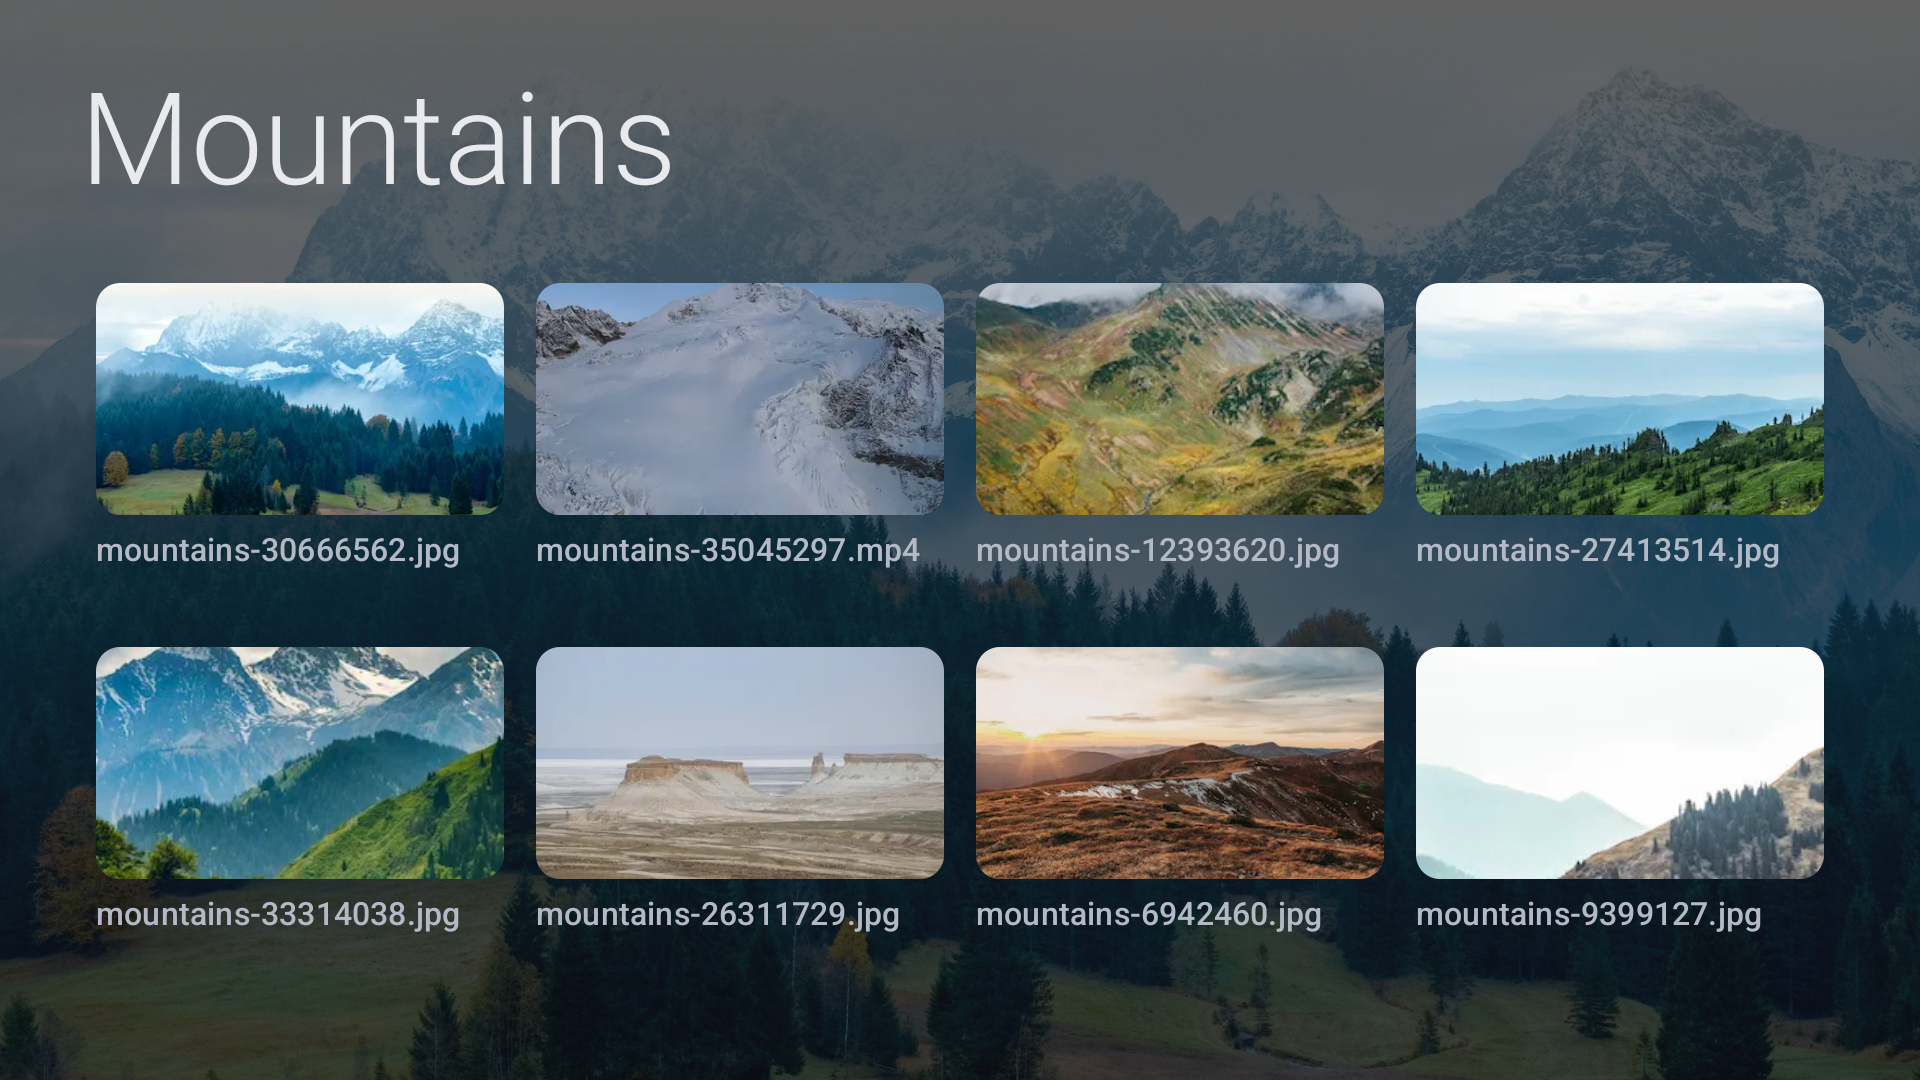
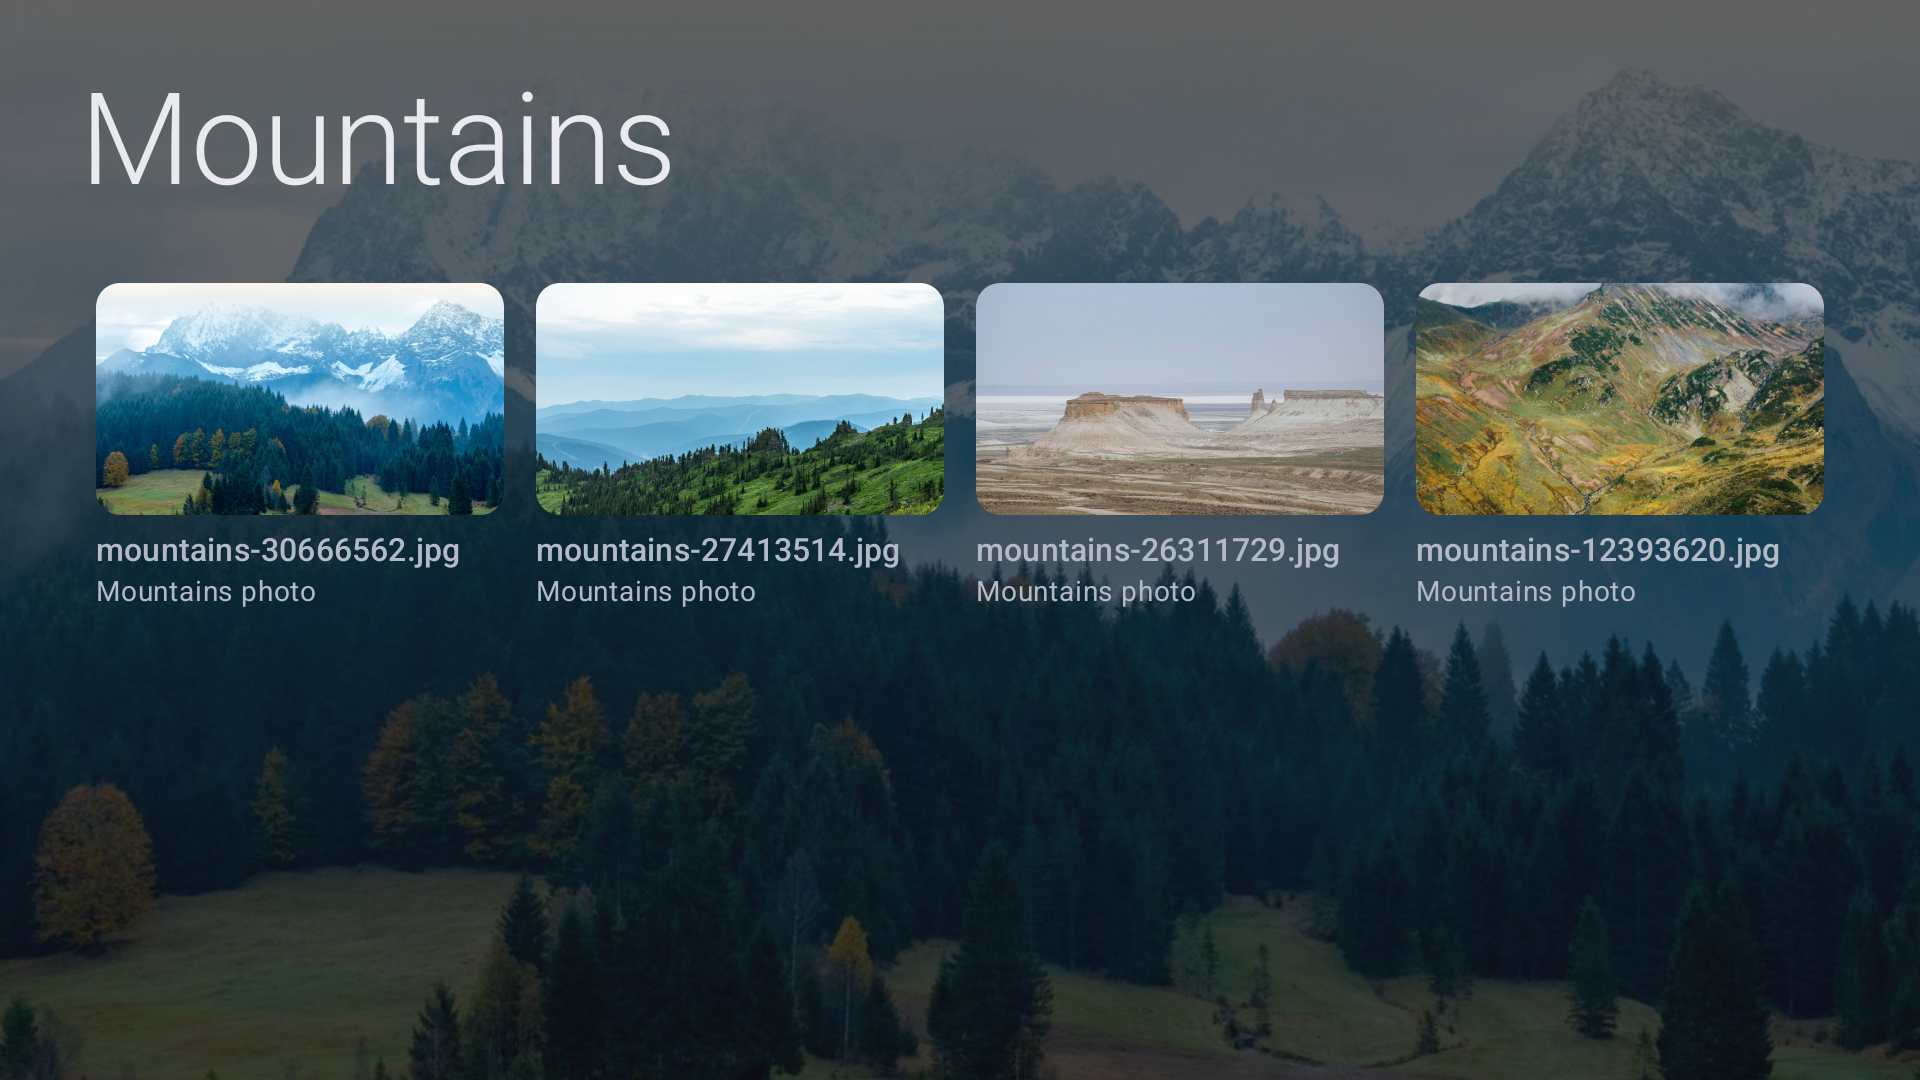
Take new screenshots in the offline demo mode

diff --git a/README.md b/README.md
@@ -14,8 +14,8 @@ are not shared with it. It needs Android 7.0 (API 24) or newer and an Immich ser
 
 ## Screenshots
 
-All screenshots were taken against a local test server filled with stock photos
-(see [tools/test-server](tools/test-server)); no private photos are shown.
+All screenshots were taken in the offline demo mode with its bundled stock photos
+(see [credits](app/src/main/assets/demo/CREDITS.md)); no private photos are shown.
 
 |                                                       |                                                      |                                                    |
 |:-----------------------------------------------------:|:----------------------------------------------------:|:--------------------------------------------------:|
